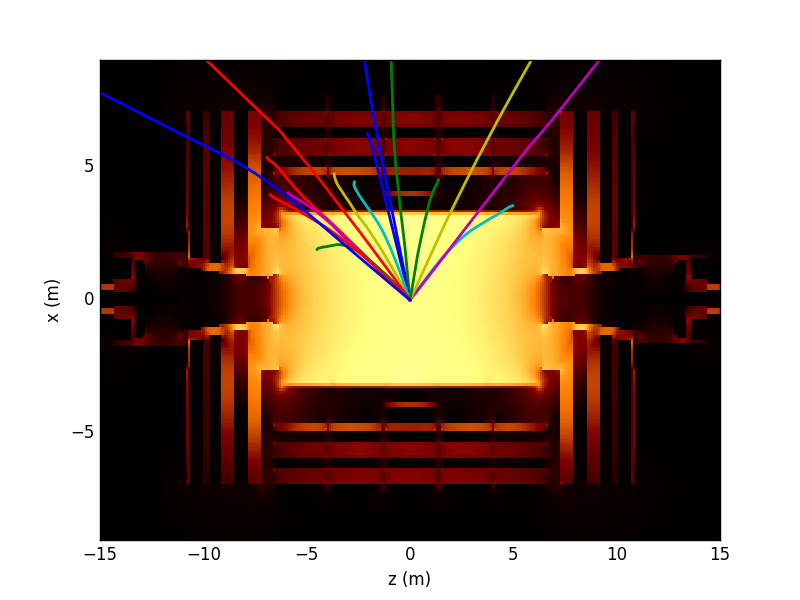
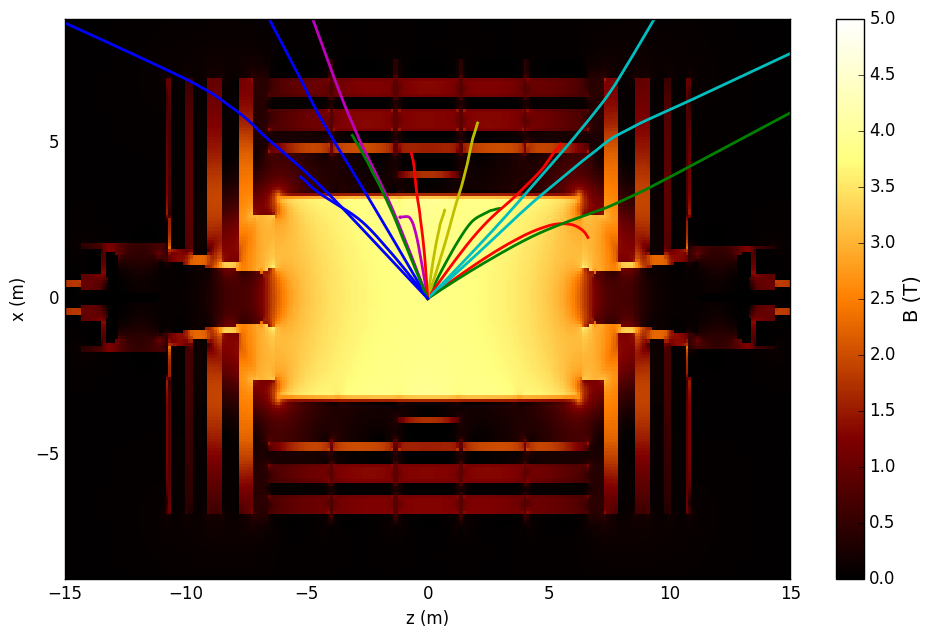
tighening figures

diff --git a/src/Drawing.py b/src/Drawing.py
@@ -77,33 +77,32 @@ def DrawXYslice(trajs, colors=None, ax=None, fig=None, subplot=111):
     ax.set_xlim((-9,9))
     ax.set_ylim((-9,9))
 
-def DrawXZslice(trajs, colors=None, ax=None, fig=None, subplot=111, drawBField=None):
+def DrawXZslice(trajs, colors=None, ax=None, fig=None, subplot=111, drawBFieldFromEnviron=None, drawColorbar=False):
     # draws projected trajectories in z=0 plane
     # see above for argument descriptions
 
-    if ax == None:
-        if fig==None:
+    if ax is None:
+        if fig is None:
             fig = plt.gcf()
         ax = fig.add_subplot(subplot)
 
-    if colors==None:
+    if colors is None:
         colors = ['r','g','b','c','m','y']
-
-    if drawBField==None:
-        if Params.BFieldLoaded:
-            drawBField = True
-        else:
-            drawBField = False
-
     nc = len(colors)
 
-    # draw B field
-    x = np.arange(-Params.RMAX, Params.RMAX+1e-10, Params.DR)/100
-    z = np.arange(Params.ZMIN, Params.ZMAX+1e-10, Params.DZ)/100
-    Z,X = np.meshgrid(z,x)
+    if drawBFieldFromEnviron is not None:        
+        env = drawBFieldFromEnviron
+        # draw B field
+        x = np.arange(-env.RMAX, env.RMAX+1e-10, env.DR)/100
+        z = np.arange(env.ZMIN, env.ZMAX+1e-10, env.DZ)/100
+        Z,X = np.meshgrid(z,x)
 
-    mag = np.append(Params.Bmag[::-1,:,0],Params.Bmag[1:,:,180/Params.DPHI],0)
-    bmplot = plt.pcolor(Z,X,mag,cmap='afmhot',vmax=5.0)
+        mag = np.append(env.Bmag[::-1,:,0],env.Bmag[1:,:,180/env.DPHI],0)
+        bmplot = plt.pcolor(Z,X,mag,cmap='afmhot',vmax=5.0)
+        
+        if drawColorbar:
+            bmcb = plt.colorbar(bmplot)
+            bmcb.set_label('B (T)',fontsize=14)
 
     # draw trajectories
     for i in range(len(trajs)):

diff --git a/bfield/plotB.py b/bfield/plotB.py
@@ -51,7 +51,7 @@ k=3
 
 plt.axis([-1500,1500,-900,900])
 
-plt.savefig('cms_bfield_coarse.png')
+plt.savefig('cms_bfield_coarse.png', bbox_inches='tight')
 
 # dpi = 80.0
 # xpixels, ypixels = 3001, 1801
